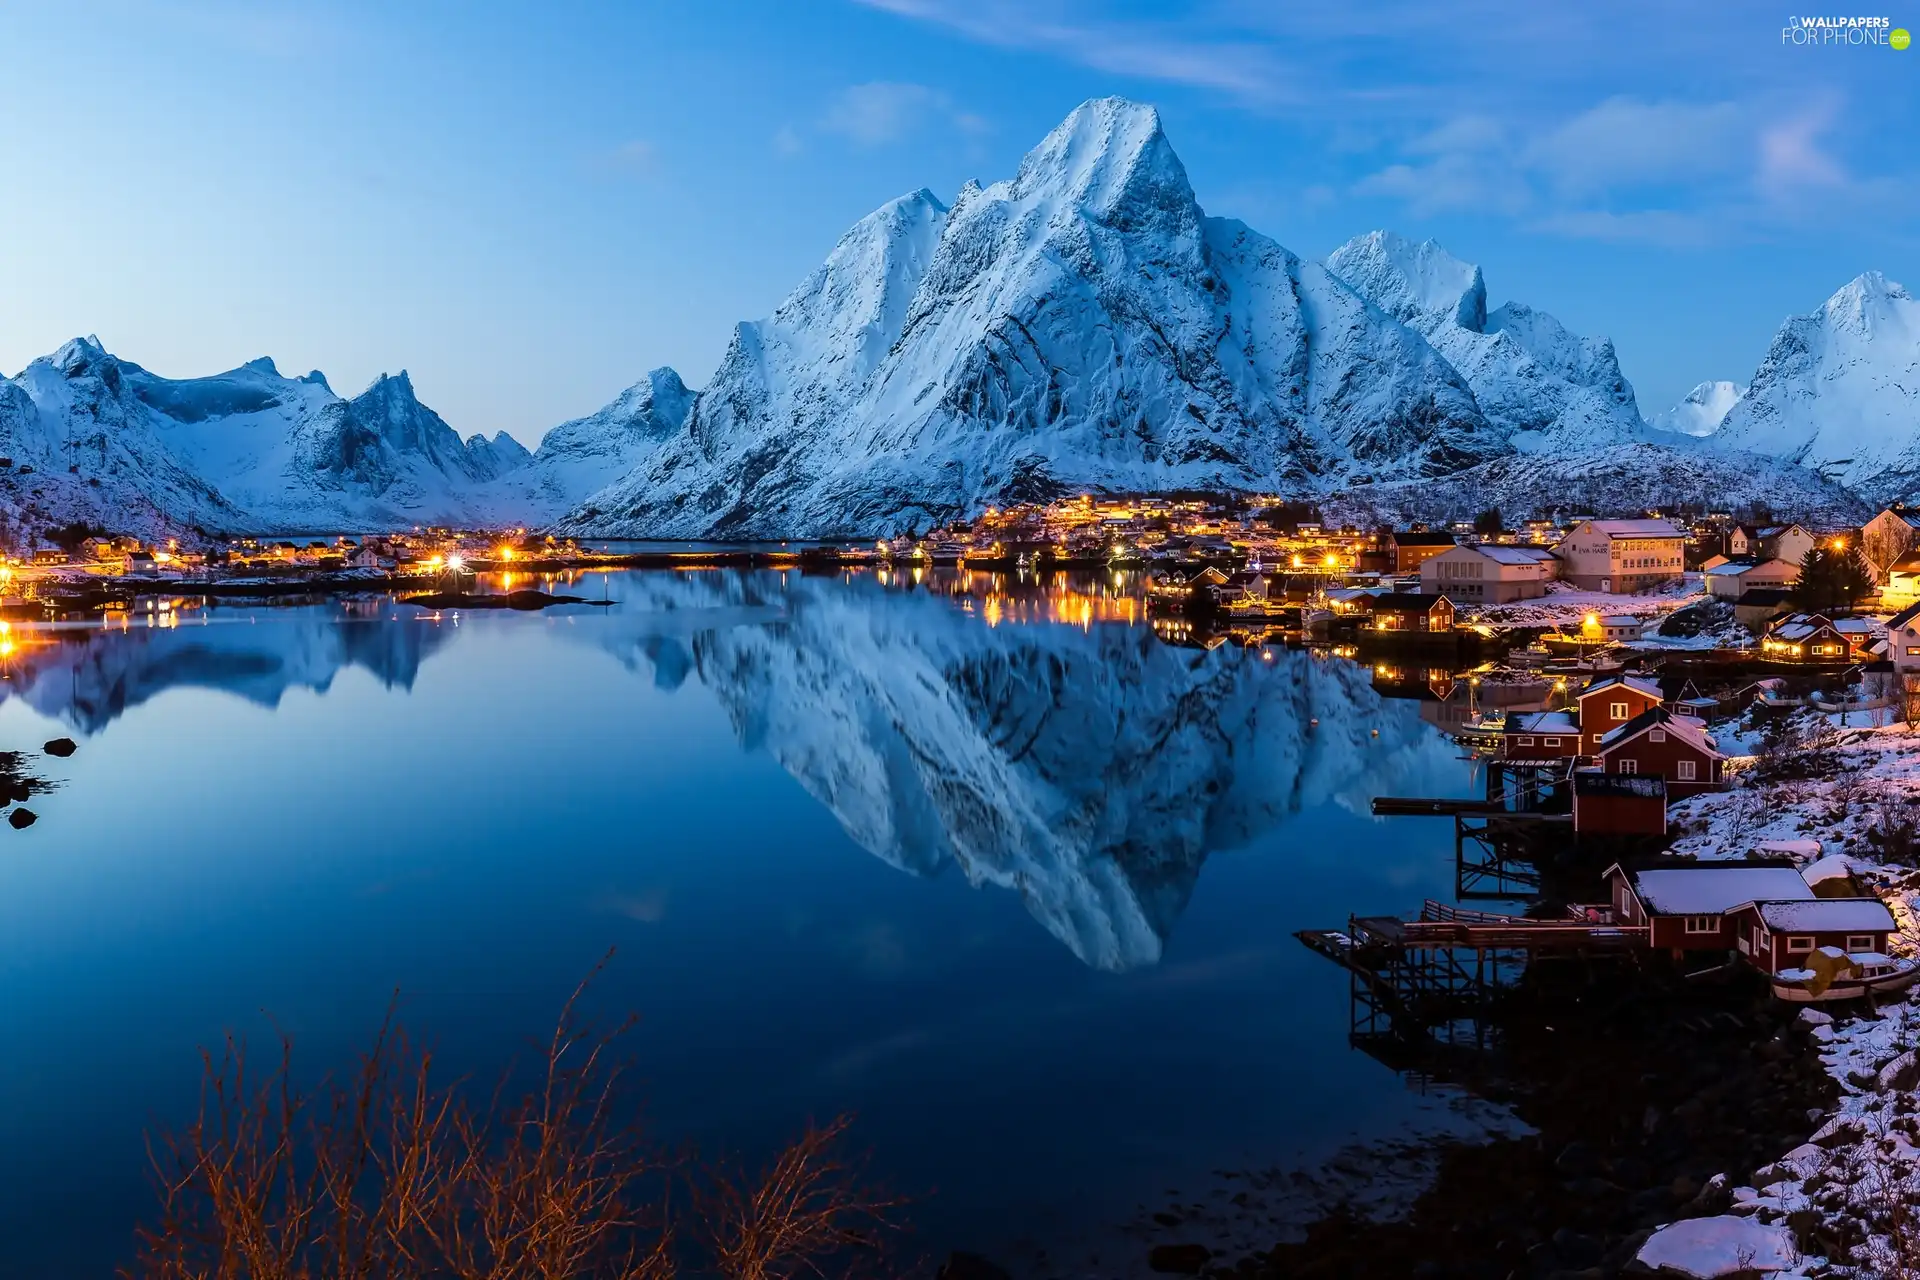
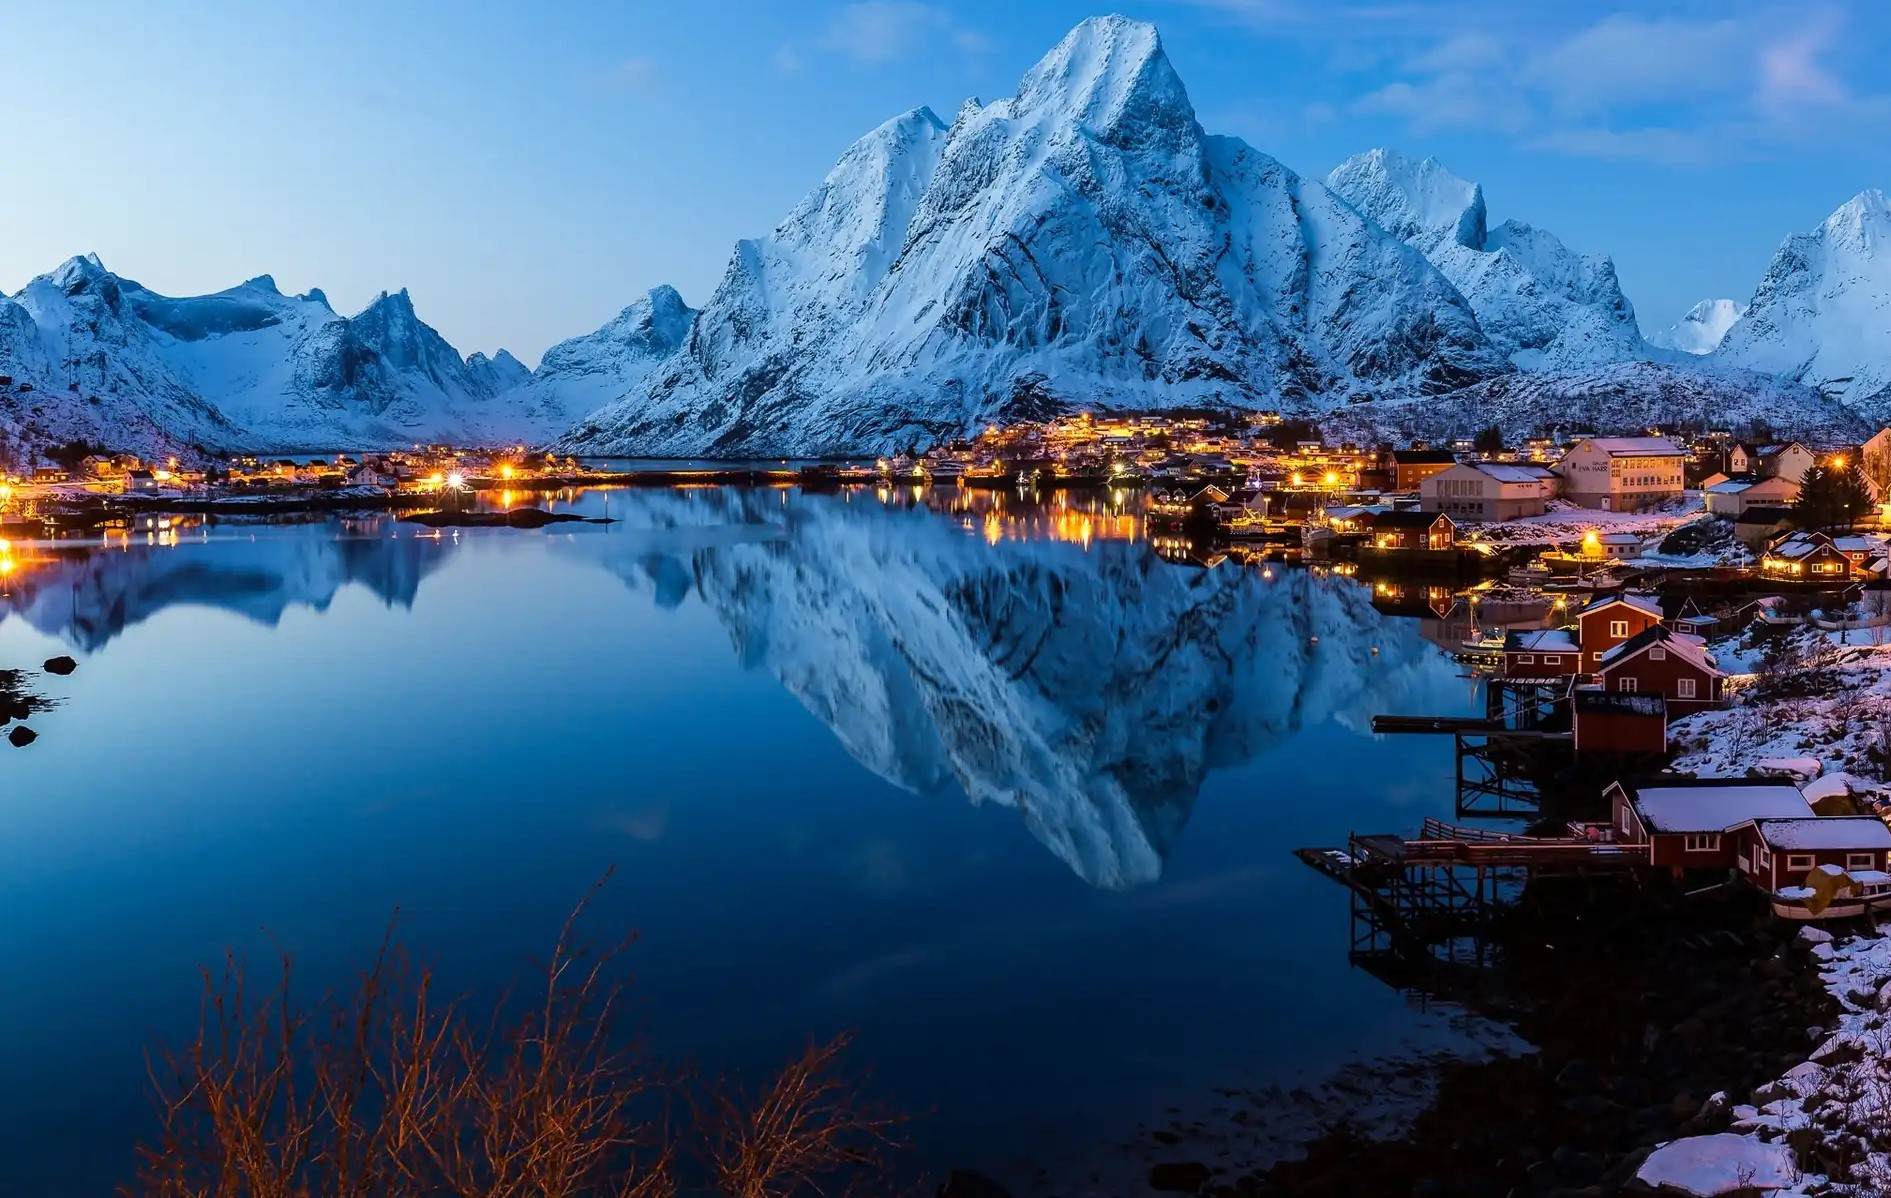
Updated photo, created homepage hero and styled with CSS

diff --git a/src/style.css b/src/style.css
@@ -1,2 +1,55 @@
-h1 {
+.container {
+  margin: 0 auto;
+  max-width: 1400px;
+  text-align: center;
+}
+
+header {
+  background-image: linear-gradient(rgba(0, 0, 0, 0.4), rgba(0, 0, 0, 0.4)),
+    url("../images/lofoten-mountains-village.jpg");
+  background-repeat: no-repeat;
+  background-size: cover;
+  padding: 200px;
+  color: #ffffff;
+}
+
+header h1 {
+  font-size: 96px;
+  font-weight: bold;
+  line-height: 1.5;
+  margin: 0;
+}
+
+header h3 {
+  font-size: 36px;
+  margin: 0;
+  margin-bottom: 12px;
+  line-height: 1.5;
+}
+
+header a {
+  display: inline-block;
+  text-decoration: none;
+  background-color: #ffffff;
+  color: #000000;
+  padding: 12px 36px;
+}
+
+@media (max-width: 900px) {
+  header {
+    padding: 60px 0;
+  }
+
+  header h1 {
+    font-size: 48px;
+  }
+
+  header h3 {
+    font-size: 12px;
+  }
+
+  header a {
+    padding: 8px 12px;
+    font-size: 12px;
+  }
 }

diff --git a/index.html b/index.html
@@ -7,11 +7,17 @@
     <link rel="stylesheet" href="src/style.css" />
   </head>
   <body>
-    <h1>Welcome to Norway</h1>
+    <div class="container">
+      <header>
+        <h1>Welcome to Norway</h1>
+        <h3>Destination: Etheral World</h3>
+        <a href="/">Learn More</a>
+      </header>
+      <footer>
+        This page was coded by
+        <a href="https://github.com/AlexFern17">Alex Fernandez</a> and is
+        open-sourced on GitHub.
+      </footer>
+    </div>
   </body>
-  <footer>
-    This page was coded by
-    <a href="https://github.com/AlexFern17">Alex Fernandez</a> and is
-    open-sourced on GitHub.
-  </footer>
 </html>
